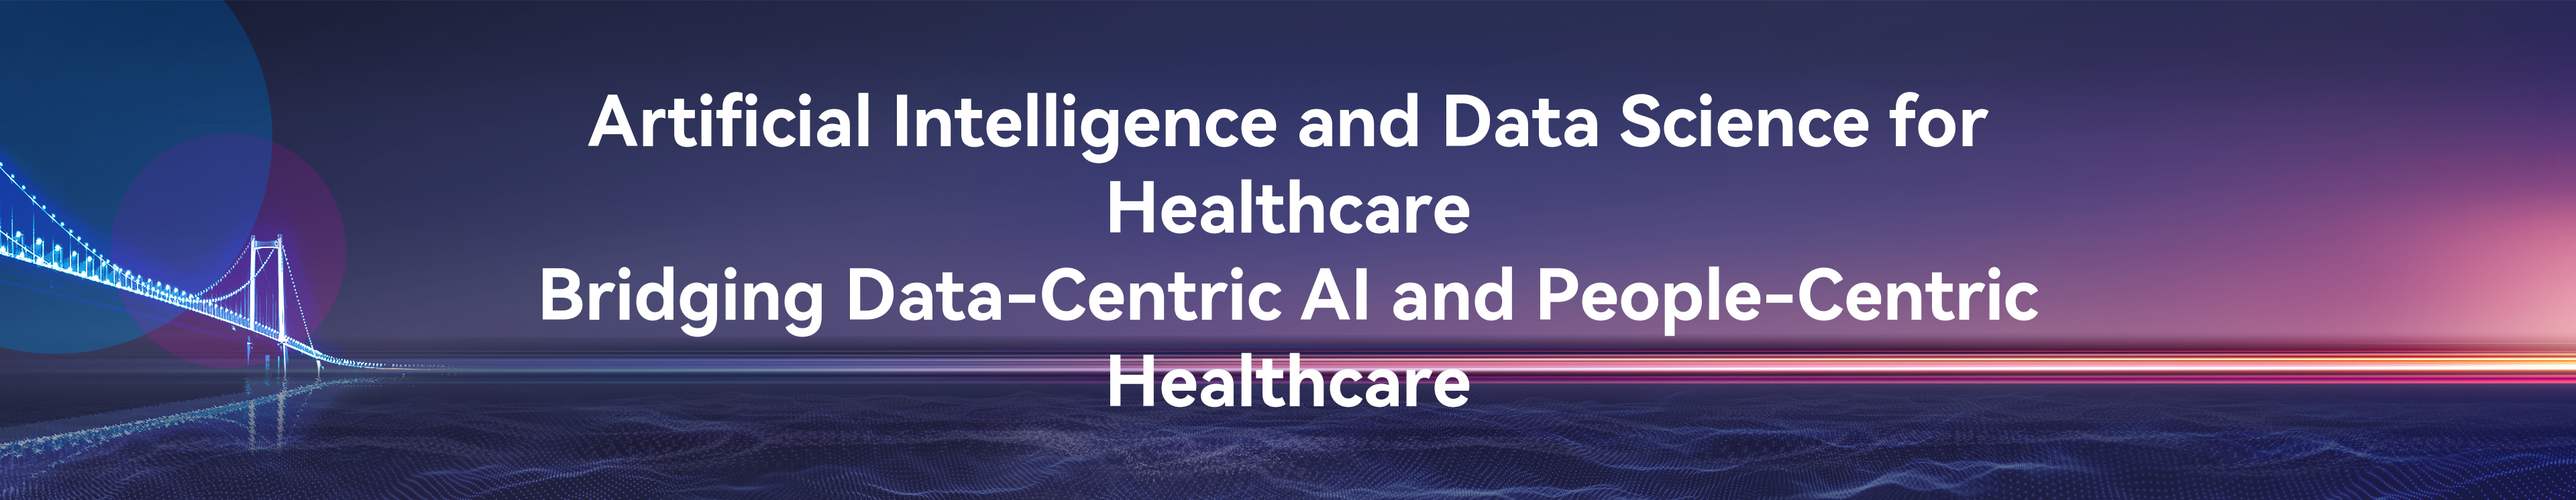
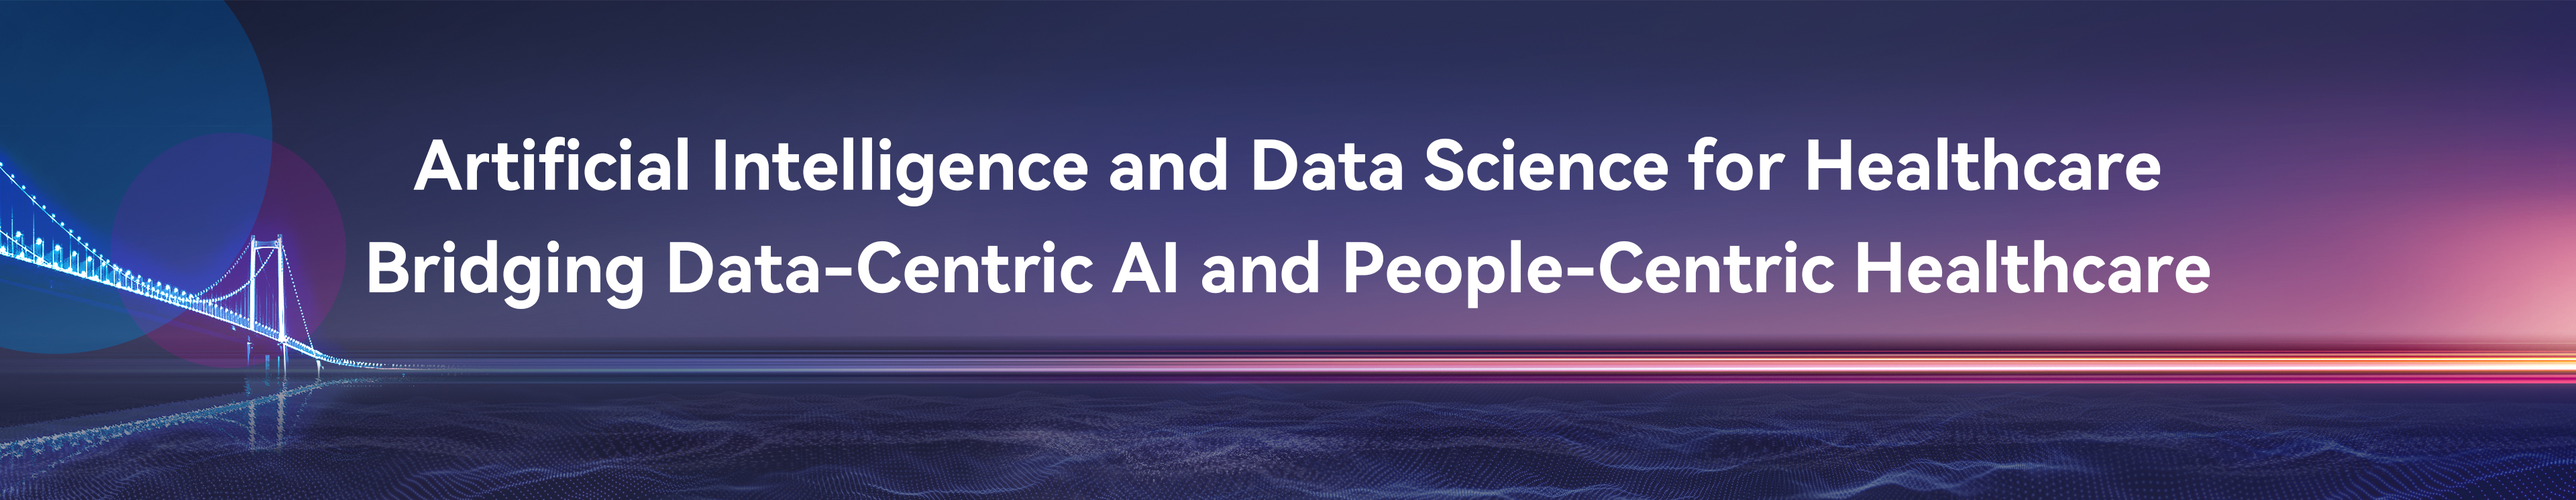
banner替换

Changed region(s): [[0.125, 0.185, 0.875, 0.6783], [0.4062, 0.7091, 0.5938, 0.8324]]

diff --git a/src/components/Banner/Banner.vue b/src/components/Banner/Banner.vue
@@ -16,7 +16,7 @@
 .banner {
   width: 100%;
   aspect-ratio: 1920 / 374;
-  background-image: url("../../assets/banner.png");
+  background-image: url("../../assets/banner.jpg");
   background-repeat: no-repeat;
   background-size: contain;
 }
